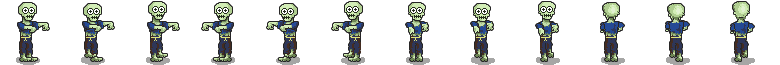
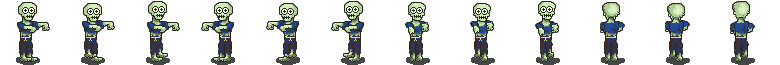
changin sprites

diff --git a/src/js/grid.js b/src/js/grid.js
@@ -29,28 +29,22 @@ Crafty.c('BGGrid', {
 			}
 		}
 		
-		Crafty.e("Line, 2D, DOM, gridBounds, Color, Collision")
-			.color('rgb(30,150,30)')
+		Crafty.e("Line, 2D, DOM, gridBounds, Collision")
 			.attr({ x:0, y:30 , w:2, h:ETA.config.stageHeight })
 			.collision();
-		Crafty.e("Line, 2D, DOM, gridBounds, Color, Collision")
-			.color('rgb(30,150,30)')
+		Crafty.e("Line, 2D, DOM, gridBounds, Collision")
 			.attr({ x:ETA.config.stageWidth-2, y:30 , w:2, h:ETA.config.stageHeight })
 			.collision();
-		Crafty.e("Line, 2D, DOM, dollGridBounds, Color, Collision")
-			.color('rgb(30,150,30)')
+		Crafty.e("Line, 2D, DOM, dollGridBounds, Collision")
 			.attr({ x:0, y:30 , w:2, h:ETA.config.stageHeight })
 			.collision();
-		Crafty.e("Line, 2D, DOM, dollGridBounds, Color, Collision")
-			.color('rgb(30,150,30)')
+		Crafty.e("Line, 2D, DOM, dollGridBounds, Collision")
 			.attr({ x:ETA.config.stageWidth-2, y:30 , w:2, h:ETA.config.stageHeight })
 			.collision();
-		Crafty.e("Line, 2D, DOM, dollGridBounds, Color, Collision")
-			.color('rgb(30,150,30)')
+		Crafty.e("Line, 2D, DOM, dollGridBounds, Collision")
 			.attr({ x:0, y:29 , w:ETA.config.stageWidth, h:2 })
 			.collision();
-		Crafty.e("Line, 2D, DOM, dollGridBounds, Color, Collision")
-			.color('rgb(30,150,30)')
+		Crafty.e("Line, 2D, DOM, dollGridBounds, Collision")
 			.attr({ x:0, y:ETA.config.stageHeight-2 , w:ETA.config.stageWidth , h:2 })
 			.collision();
 			

diff --git a/src/js/main.js b/src/js/main.js
@@ -34,9 +34,9 @@ window.onload = function() {
 		generateWorld();
 
 		var cemetery = [];
-		cemetery.push(Crafty.e("Cemetery, signSprite")
+		cemetery.push(Crafty.e("Cemetery, signRougeSprite")
 				.Cemetery(1, 3));
-		cemetery.push(Crafty.e("Cemetery, signSprite")
+		cemetery.push(Crafty.e("Cemetery, signRougeSprite")
 				.Cemetery(1, 7));
 
 		var player3 = Crafty.e("Zombie, zombieRougeSprite")

diff --git a/src/js/cemetery.js b/src/js/cemetery.js
@@ -19,7 +19,7 @@ Crafty.c('Cemetery', {
 	},
 	spawn: function() {
 		if(this.spawnRun && ETA.debug.play) {
-			Crafty.e("Zombie, zombieSprite")
+			Crafty.e("Zombie, zombieRougeSprite")
 				.Zombie()
 				.attr({ x: this.cell.center.x, y: this.cell.center.y, z: 900 });
 		}
